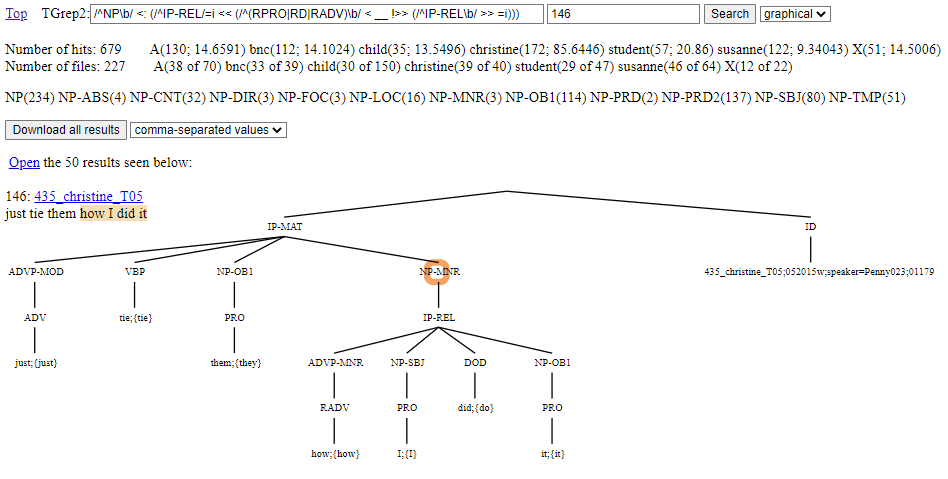
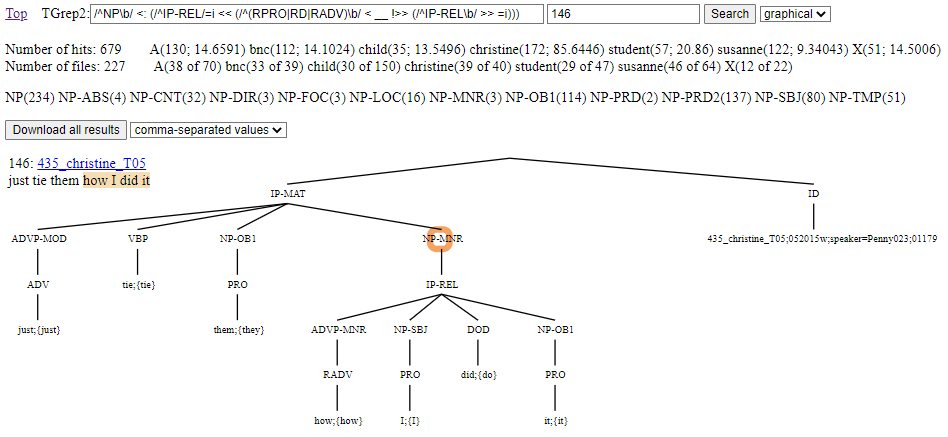
update

diff --git a/search_interface.html b/search_interface.html
@@ -27,7 +27,6 @@
 <h2><a name="sec1">1</a>&nbsp;&nbsp;&nbsp;Introduction</h2>
 
 <p align="justify">The search interface aims to give quick and powerful access to the corpus content. The interface is useful for:</p>
-
 <dl>
 <dt>(i)</dt><dd>browsing the corpus</dd>
 <dt>(ii)</dt><dd>accessing content by providing ID information</dd>
@@ -222,7 +221,7 @@
 
 <h4><a name="sec5.2.1">5.2.1</a>&nbsp;&nbsp;&nbsp;Tree search results as tree yields</h4>
 
-<p align="justify">Figure <a href="#fig10">10</a> illustrates the display of results as tree yields. Content corresponding to what is matched by the master node of the query is highlighted. Zero elements (e.g.&nbsp;relative clause traces) are typically not shown in tree yields, but will appear highlighted if they happen to be the matched segment. Each returned tree yield with its single highlighted segment is given a hit number. The hit number doubles as a link to the tree view page for the given tree yield. Up to five hundred yield results are shown in corpus order. If there are more than five hundred results, you can see different yields by re-running the search after changing the number of the start number field (which is 146 in Figure <a href="#fig10">10</a>).</p>
+<p align="justify">Figure <a href="#fig10">10</a> illustrates the display of results as tree yields. Content matched by the master node of the query is highlighted. Zero elements (e.g.&nbsp;relative clause traces) are typically not shown in tree yields, but will appear highlighted if they happen to be all that is matched. Each returned tree yield with its single highlighted segment is given a hit number. The hit number doubles as a link to the tree view page for the given tree yield. Up to five hundred yield results are shown in corpus order. If there are more than five hundred results, you can see different yields by re-running the search after changing the number of the start number field (which is 146 in Figure <a href="#fig10">10</a>).</p>
 
 <p><a name="fig10">Figure 10: Example of tree search results as tree yields</a></p>
 
@@ -238,11 +237,11 @@
 
 <h4><a name="sec5.2.2">5.2.2</a>&nbsp;&nbsp;&nbsp;Tree search results as graphical trees</h4>
 
-<p align="justify">Figure <a href="#fig11">11</a> illustrates the display of results as graphical trees. Results are displayed as trees, with content that matches the master node of the search pattern highlighted. The ID node of a shown tree works as a link for accessing the same tree in a tree view page. A yield of the tree is also given with highlighted content corresponding to what is matched by the master node of the query. Up to fifty tree results are shown in corpus order. If there are more than fifty results, you can see different trees by re-running the search after changing the number of the start number field (which is 146 in Figure <a href="#fig11">11</a>).</p>
+<p align="justify">Figure <a href="#fig11">11</a> illustrates the display of results as graphical trees, with displayed trees having a highlighted node that is the match for the master node of the search pattern. There is also a link for accessing the tree in a tree view page and a yield, with content matched by the master node highlighted. Up to fifty tree results are shown in corpus order. If there are more than fifty results, you can see different trees by re-running the search after changing the number of the start number field (which is 146 in Figure <a href="#fig11">11</a>).</p>
 
 <p><a name="fig11">Figure 11: Example of tree search results as tree graphical trees</a></p>
 
-<img src="search_tree.png" alt="Example of tree search results as graphical trees" height="530">
+<img src="search_tree.png" alt="Example of tree search results as graphical trees" height="480">
 
 <h4><a name="sec5.2.3">5.2.3</a>&nbsp;&nbsp;&nbsp;Downloading all tree search results</h4>
 
@@ -331,19 +330,19 @@
 
 <p align="justify">&nbsp;&nbsp;&nbsp;&nbsp;Square bracket content tells us about how words function, e.g.&nbsp;<tt>[arg0]</tt>=logical subject, <tt>[arg0]</tt>=direct object, <tt>[prd2]</tt>=subject predicative role. It is most typical for square bracket content to be part of the label for a directed arrow that connects graph nodes.</p>
 
-<p align="justify">&nbsp;&nbsp;&nbsp;&nbsp;Most words from source sentences have a presence within the corresponding graph, however the contribution of some words has to be seen in terms of consequences for graph nodes and their dependencies. Missing words include words involved with referencing what is talked about, with node presence capturing the making-reference contribution. These words can be either:</p>
+<p align="justify">&nbsp;&nbsp;&nbsp;&nbsp;Most words from source sentences have a presence within the corresponding graph, however the contribution of some words has to be seen in terms of consequences for graph nodes and their dependencies. Missing words include words that have a reference making contribution that is captured by node presence within the graph. These words can be:</p>
 <ul>
-<li><b><i>indefinites</i></b> (e.g.&nbsp;<i>a</i>, <i>an</i>, <i>some</i>) used to introduce new items for discussion (discourse referents),</li>
-<li><b><i>definites</i></b> (e.g.&nbsp;<i>the</i>, <i>these</i>, <i>this</i>) used for a familiar or unique referent of the discourse, or</li>
-<li><b><i>sentence</i></b>&sol;<b><i>discourse bound pronouns</i></b> (e.g.&nbsp;<i>he</i>, <i>her</i>, <i>themselves</i>) that are links to already established referents.</li>
+<li><b><i>indefinites</i></b> (e.g.&nbsp;<i>a</i>, <i>an</i>, <i>some</i>) used to introduce new items for discussion (discourse referents)</li>
+<li><b><i>definites</i></b> (e.g.&nbsp;<i>the</i>, <i>these</i>, <i>this</i>) used for a familiar or unique referent of the discourse</li>
+<li><b><i>sentence</i></b>&sol;<b><i>discourse bound pronouns</i></b> (e.g.&nbsp;<i>he</i>, <i>her</i>, <i>themselves</i>) that are links to already established referents</li>
 </ul>
 
 <p align="justify">Note that unbound pronouns do have graph presence, as seen with <i>He</i> in Figure <a href="#fig18">18</a> below.</p>
 
 <p align="justify">&nbsp;&nbsp;&nbsp;&nbsp;Other words with no graph presence are:</p>
 <ul>
-<li><b><i>relative pronouns</i></b> used at the start of a relative clause, e.g.&nbsp;<i>who</i>, <i>which</i>, <i>that</i> (<i>the girl <u>who</u> smiled</i>, <i>the house <u>which&sol;that</u> Jack built</i>), and</li>
-<li>the <b><i>complementiser</i></b> <i>that</i> used at the start of an embedded clause (<i>I think <u>that</u> she smiled</i>, <i>the claim <u>that</u> Jack built a house</i>).</li>
+<li><b><i>relative pronouns</i></b> used at the start of a relative clause, e.g.&nbsp;<i>who</i>, <i>which</i>, <i>that</i> (<i>the girl <u>who</u> smiled</i>, <i>the house <u>which&sol;that</u> Jack built</i>)</li>
+<li>the <b><i>complementiser</i></b> <i>that</i> used at the start of an embedded clause (<i>I think <u>that</u> she smiled</i>, <i>the claim <u>that</u> Jack built a house</i>)</li>
 </ul>
 
 <p align="justify">&nbsp;&nbsp;&nbsp;&nbsp;It is also possible for graph content to involve the &lsquo;<tt>#</tt>&rsquo; symbol. This marks a word absence due to an elided phrase head or verb from the source sentence. For example, consider the graph page result of Figure <a href="#fig18">18</a>.</p>
